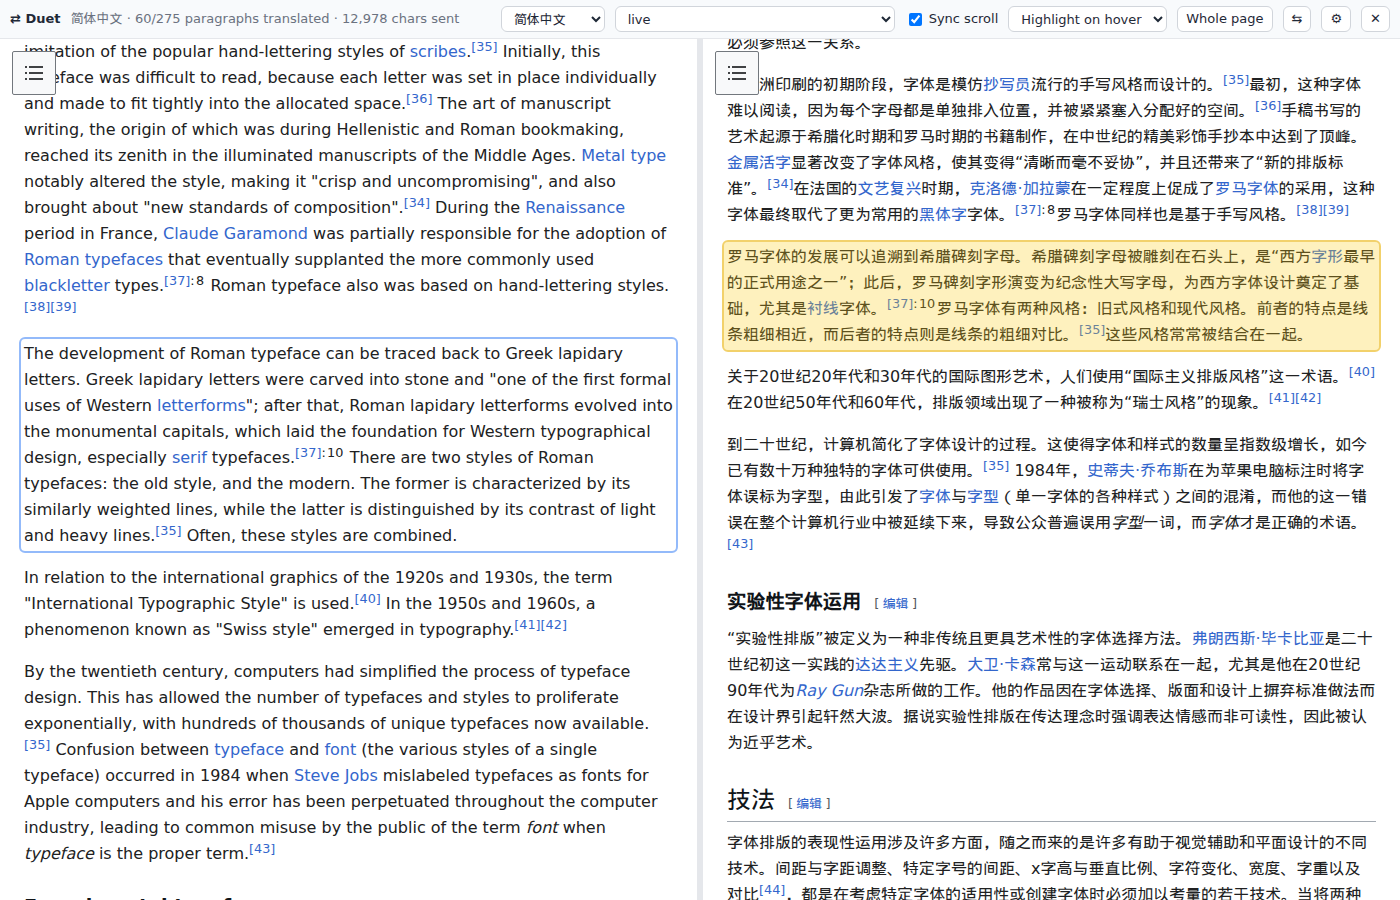
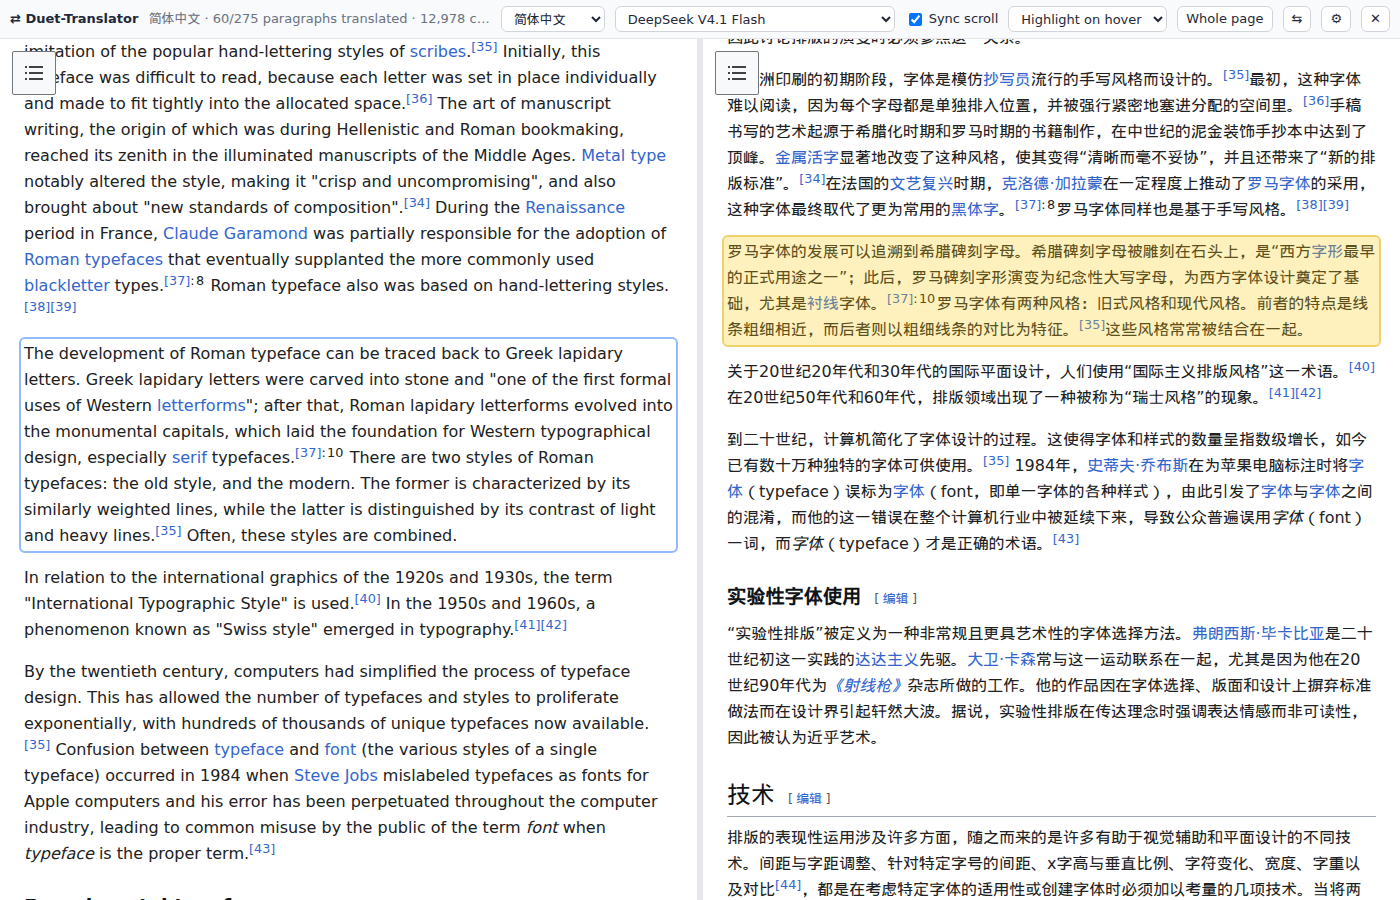
Rename to Duet-Translator
- Extension name, UI strings, docs and tests use "Duet-Translator"
  (Chinese UI keeps the subtitle "对读")
- Refresh README screenshots
- live.mjs: optional LIVE_NAME for the engine's display name

diff --git a/extension/shared/i18n.js b/extension/shared/i18n.js
@@ -7,7 +7,7 @@
   'use strict';
   const D = {
     zh: {
-      brand: 'Duet · 对读',
+      brand: 'Duet-Translator · 对读',
       'ui.auto': '自动', 'ui.zh': '中文', 'ui.en': 'English',
 
       'sh.loading': '加载中…',
@@ -88,7 +88,7 @@
       'prov.local-llm': '自部署 LLM（OpenAI 兼容）',
       'prov.deepl': 'DeepL API',
 
-      'opt.title': 'Duet · 对读 设置',
+      'opt.title': 'Duet-Translator 设置',
       'opt.general': '通用',
       'opt.uiLang': '界面语言',
       'opt.source': '源语言',
@@ -117,7 +117,7 @@
       'opt.extraBodyBad': '「{name}」的额外请求体不是合法 JSON',
     },
     en: {
-      brand: 'Duet',
+      brand: 'Duet-Translator',
       'ui.auto': 'Auto', 'ui.zh': '中文', 'ui.en': 'English',
 
       'sh.loading': 'Loading…',
@@ -135,8 +135,8 @@
       'sh.retry.title': 'Retry failed paragraphs',
       'sh.swap.title': 'Swap sides',
       'sh.opts.title': 'Settings',
-      'sh.close.title': 'Close Duet',
-      'sh.confirmAll': 'Translate the remaining {n} paragraphs on this page (about {chars} characters; cached ones are free)?\nBy default Duet only translates what you scroll to.',
+      'sh.close.title': 'Close Duet-Translator',
+      'sh.confirmAll': 'Translate the remaining {n} paragraphs on this page (about {chars} characters; cached ones are free)?\nBy default Duet-Translator only translates what you scroll to.',
       'sh.status': '{lang} · {done}/{total} paragraphs translated · {sent} chars sent',
       'sh.inflight': ' · {n} in flight',
       'sh.failed': ' · {n} failed',
@@ -153,10 +153,10 @@
       'err.noContent': 'Response is missing choices[0].message.content',
       'err.extraBody': 'extraBody is not valid JSON',
       'err.deepl': 'Unexpected DeepL response format',
-      'ctx.menu': 'Duet: read side by side from here',
+      'ctx.menu': 'Duet-Translator: read side by side from here',
 
       'pop.on': 'Read this page side by side',
-      'pop.off': 'Close Duet',
+      'pop.off': 'Close Duet-Translator',
       'pop.noTab': 'No active tab',
       'pop.unavailable': 'Not available here (browser pages / store / PDF)',
       'pop.engine': 'Translation engine',
@@ -198,7 +198,7 @@
       'prov.local-llm': 'Self-hosted LLM (OpenAI-compatible)',
       'prov.deepl': 'DeepL API',
 
-      'opt.title': 'Duet Settings',
+      'opt.title': 'Duet-Translator Settings',
       'opt.general': 'General',
       'opt.uiLang': 'Interface language',
       'opt.source': 'Source language',
@@ -210,7 +210,7 @@
       'opt.prefetch.title': 'Only the visible area plus this many screens below it are translated. New positions are translated once scrolling stops; content you fly past is skipped.',
       'opt.sync': 'Sync scroll',
       'opt.strip': 'Allow sites that forbid iframes',
-      'opt.strip.title': 'While Duet is open, strip X-Frame-Options / CSP response headers for that tab\'s frames only, so sites that forbid embedding can still be split',
+      'opt.strip.title': 'While Duet-Translator is open, strip X-Frame-Options / CSP response headers for that tab\'s frames only, so sites that forbid embedding can still be split',
       'opt.engines': 'Translation engines',
       'opt.engines.hint': 'The OpenAI-compatible type works with vLLM / SGLang / Ollama (<code>http://host:11434/v1</code>) / LM Studio / llama.cpp server, as well as DeepSeek, Qwen (DashScope compatible mode), OpenRouter and more. API keys are kept only in this browser\'s <code>chrome.storage.local</code> and used only by the extension background.',
       'opt.addOpenai': '+ OpenAI-compatible',

diff --git a/extension/background/sw.js b/extension/background/sw.js
@@ -40,7 +40,7 @@ async function toggle(tabId, opts) {
     await chrome.scripting.executeScript({ target: { tabId }, files: SHELL_FILES });
   } catch (e) {
     // edge:// 、扩展商店、PDF 查看器等页面不允许注入
-    console.warn('[Duet] inject failed:', e);
+    console.warn('[Duet-Translator] inject failed:', e);
     chrome.action.setBadgeText({ tabId, text: '×' });
     chrome.action.setBadgeBackgroundColor({ tabId, color: '#b91c1c' });
     setTimeout(() => chrome.action.setBadgeText({ tabId, text: '' }), 2500);

diff --git a/extension/content/shell.js b/extension/content/shell.js
@@ -74,7 +74,7 @@
           if (!best || r.top < best.top) best = { u: x, top: r.top };
         }
         if (best && window.scrollY > 0) return { k: best.u.key, off: Math.max(0, best.top) };
-      } catch (e) { console.warn('[Duet] reading point failed', e); }
+      } catch (e) { console.warn('[Duet-Translator] reading point failed', e); }
       return null;
     }
 

diff --git a/extension/options/options.html b/extension/options/options.html
@@ -2,7 +2,7 @@
 <html>
 <head>
 <meta charset="utf-8">
-<title>Duet</title>
+<title>Duet-Translator</title>
 <link rel="stylesheet" href="options.css">
 </head>
 <body>

diff --git a/README.md b/README.md
@@ -1,10 +1,10 @@
-# Duet · Side-by-Side Reader
+# Duet-Translator
 
 **English** | [简体中文](README.zh-CN.md)
 
-Duet is an Edge / Chrome extension that shows a web page and its translation **side by side**, and keeps the two panes scrolling **in sync, paragraph by paragraph**. You bring the translation engine: a self-hosted LLM (vLLM, SGLang, Ollama…), a hosted API such as DeepSeek, or DeepL.
+Duet-Translator is an Edge / Chrome extension that shows a web page and its translation **side by side**, and keeps the two panes scrolling **in sync, paragraph by paragraph**. You bring the translation engine: a self-hosted LLM (vLLM, SGLang, Ollama…), a hosted API such as DeepSeek, or DeepL.
 
-![Duet: English Wikipedia on the left, Chinese translation on the right](docs/images/screenshot-en.png)
+![Duet-Translator: English Wikipedia on the left, Chinese translation on the right](docs/images/screenshot-en.png)
 
 <sub>Screenshot: the English Wikipedia article "Typography" (CC BY-SA), translated by DeepSeek V4.1 Flash. The highlighted paragraph is the same one on both sides.</sub>
 
@@ -20,12 +20,12 @@ Duet is an Edge / Chrome extension that shows a web page and its translation **s
 
 ## Install
 
-Duet is not on the extension stores yet; load it from source:
+Duet-Translator is not on the extension stores yet; load it from source:
 
 1. Download or clone this repository.
 2. Open `edge://extensions` (or `chrome://extensions`) and turn on **Developer mode**.
 3. Click **Load unpacked** (not "Pack extension") and select the **`extension/`** folder — the one that directly contains `manifest.json`.
-4. Pin the Duet icon from the extensions (puzzle-piece) menu.
+4. Pin the Duet-Translator icon from the extensions (puzzle-piece) menu.
 
 After pulling new code, click **Reload** on the extension card and refresh the page.
 
@@ -33,9 +33,9 @@ After pulling new code, click **Reload** on the extension card and refresh the p
 
 ## Set up an engine
 
-<img src="docs/images/popup-en.png" width="320" align="right" alt="Duet popup">
+<img src="docs/images/popup-en.png" width="320" align="right" alt="Duet-Translator popup">
 
-Click the Duet icon in the toolbar:
+Click the Duet-Translator icon in the toolbar:
 
 1. Choose a **translation engine** (DeepSeek V4.1 Flash by default).
 2. Paste your **API key**, and change the base URL or model if needed. Changes are saved automatically.
@@ -69,8 +69,8 @@ If your model runs on a remote GPU box, just make its address reachable from the
 | Action | |
 |---|---|
 | Toolbar icon | Open the popup: start/stop, engine, key, language |
-| `Alt+Shift+Y` (`⌥⇧Y` on macOS) | Start / stop Duet on the current tab (change it at `edge://extensions/shortcuts`) |
-| Right-click → *Duet: read side by side from here* | Start at the paragraph you clicked |
+| `Alt+Shift+Y` (`⌥⇧Y` on macOS) | Start / stop Duet-Translator on the current tab (change it at `edge://extensions/shortcuts`) |
+| Right-click → *Duet-Translator: read side by side from here* | Start at the paragraph you clicked |
 | Top bar | Target language, engine, sync on/off, hover highlight, **Whole page**, swap sides, settings, close |
 | Divider | Drag to resize the panes |
 | Close | The original page returns to the paragraph you were reading |
@@ -90,7 +90,7 @@ On the Wikipedia article above, four stops one screen apart sent about 12,000 ch
 
 - API keys are stored only in this browser (`chrome.storage.local`, not synced) and are used only by the extension's background worker, never exposed to web pages.
 - Page text is sent only to the engine you configure.
-- To split pages that forbid being embedded, Duet temporarily removes `X-Frame-Options` / CSP response headers **for the frames of that one tab** while it is open. You can turn this off in settings (such sites then cannot be split).
+- To split pages that forbid being embedded, Duet-Translator temporarily removes `X-Frame-Options` / CSP response headers **for the frames of that one tab** while it is open. You can turn this off in settings (such sites then cannot be split).
 
 ## How it works
 

diff --git a/docs/DESIGN.md b/docs/DESIGN.md
@@ -1,4 +1,4 @@
-# Duet · 对读 设计文档
+# Duet-Translator · 对读 设计文档
 
 左右分屏同时显示「原网页」和「翻译后的网页」，两侧按段落对齐同步滚动；翻译引擎可接自部署模型或任意翻译 API。目标浏览器为 Edge（Chromium，Manifest V3），Chrome 同样可用。
 
